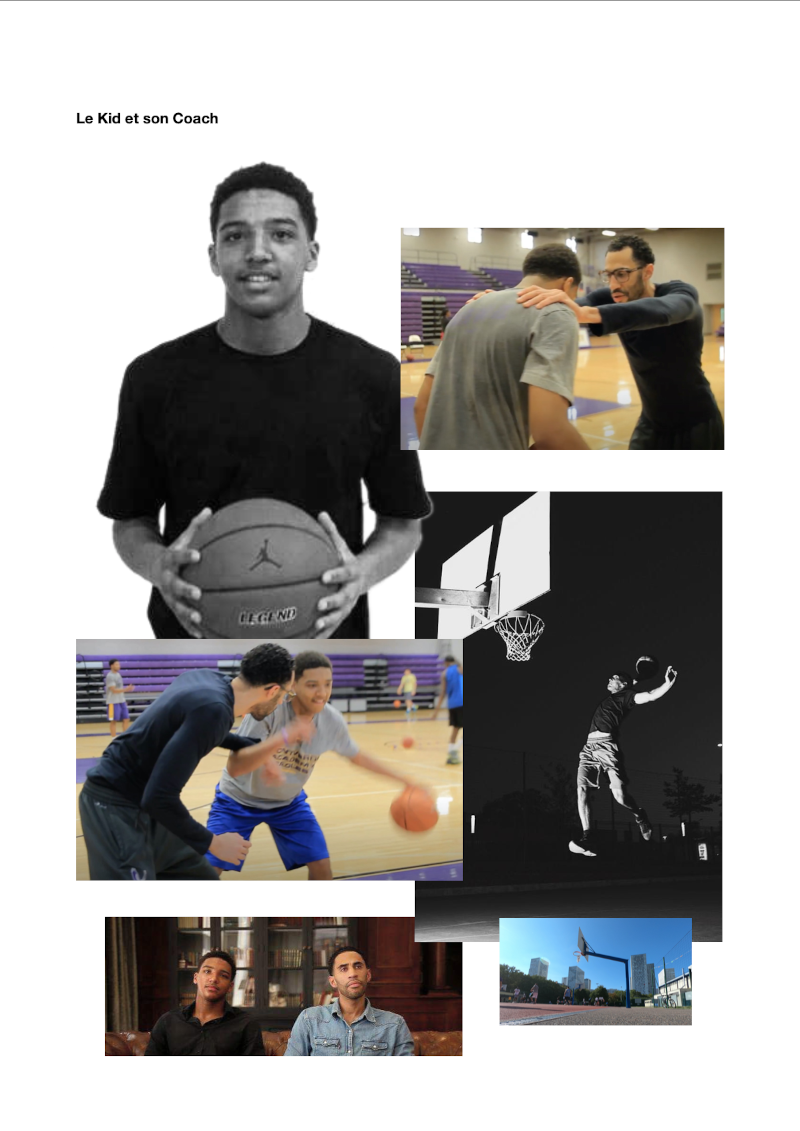
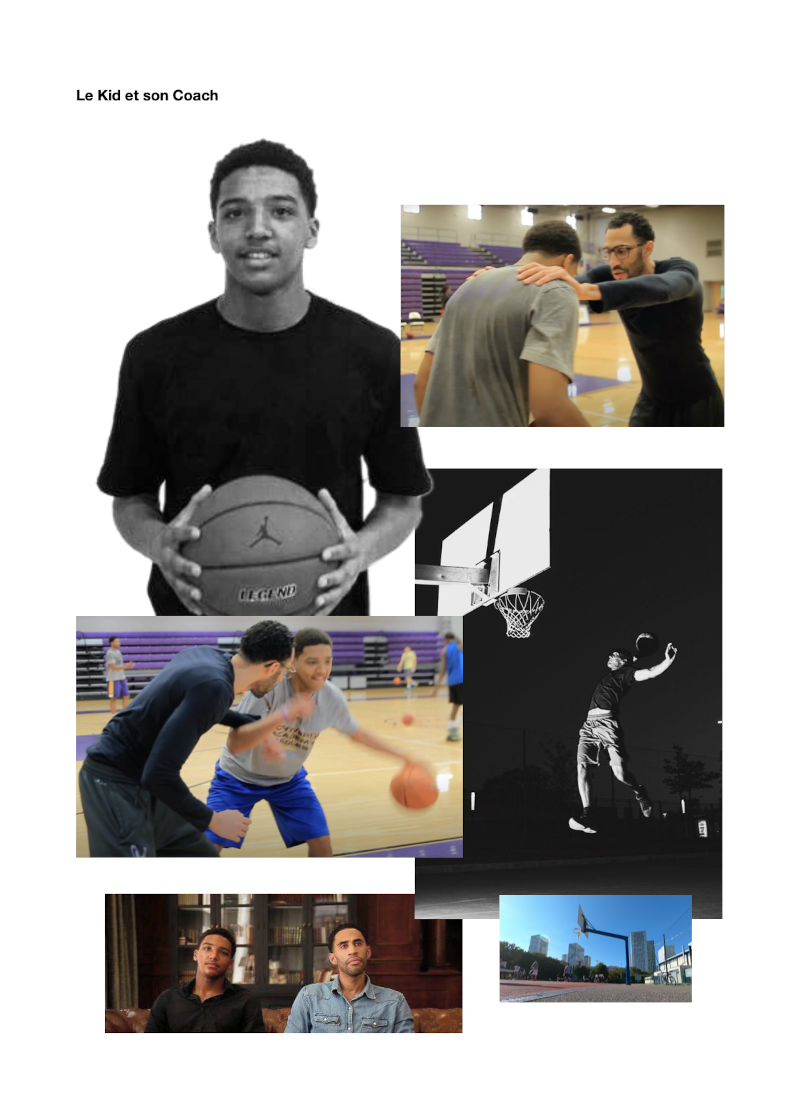
new img 01

diff --git a/protected.html b/protected.html
@@ -4,14 +4,15 @@
 <link rel="stylesheet" href="https://www.w3schools.com/w3css/4/w3.css">
 <body>
 	<div class="w3-row">
-	  <div class="w3-col s1 m2 l3 w3-green w3-center"><p>m3</p></div>
-	  <div class="w3-col s10 m8 l6 w3-dark-grey w3-center"><p>
-	  	<h1>Hello World</h1>
-		<p>I'm hosted with GitHub Pages. </br> OD doc</p>
-		<p><img src="https://onedreamdocu.github.io/img/OD-01-l.png"></p>
-		<p><img src="https://onedreamdocu.github.io/img/OD-02-l.png"></p>
+	  <div class="w3-col s1 m2 l3"><p></p></div>
+	  <div class="w3-col s10 m8 l6"><p>
+	  	<h1>One Dream</h1>
+	  	<p><b>le Kid et son Coach</b><br>On y voit Kevin Cham, un jeune basketteur issu du program Team Skywalker créé par Coach Seb Sako. Kevin incarne notre Kid dans ces visuels. Formé en France, il part adolescent aux USA quelques années avant de rentrer en Europe jouer professionnellement. Nous cherchons un profil similaire à suivre pour notre documentaire. Coach Seb est toujours entraîneur actif du programme Team Skywalker. Il jouerait le rôle du coach car il incarne à merveille le profil. Dreamer qui est parti il y a 20 ans pour une expérience aux USA. Aujourd’hui, il transmet son savoir avec passion et dureté. Les photos sont issues des réseaux sociaux de Kevin et Seb.</p>
+		<p><img src="https://onedreamdocu.github.io/img/OD-01-l.png" class="w3-image"></p>
+		<p><b>Dreamers</b><br>Designs de chaque Dreamer en action à l’époque de leurs aventures américaines accompagnés d’une photo de leur situation actuelle. Les photos sont issues des réseaux sociaux de chacun ou d’articles en ligne.</p>
+		<p><img src="https://onedreamdocu.github.io/img/OD-02-l.png" class="w3-image"></p>
 		</p></div>
-	  <div class="w3-col s1 m2 l3 w3-red w3-center"><p>m3</p></div>
+	  <div class="w3-col s1 m2 l3"><p></p></div>
 	</div>
 </body>
 </html>
